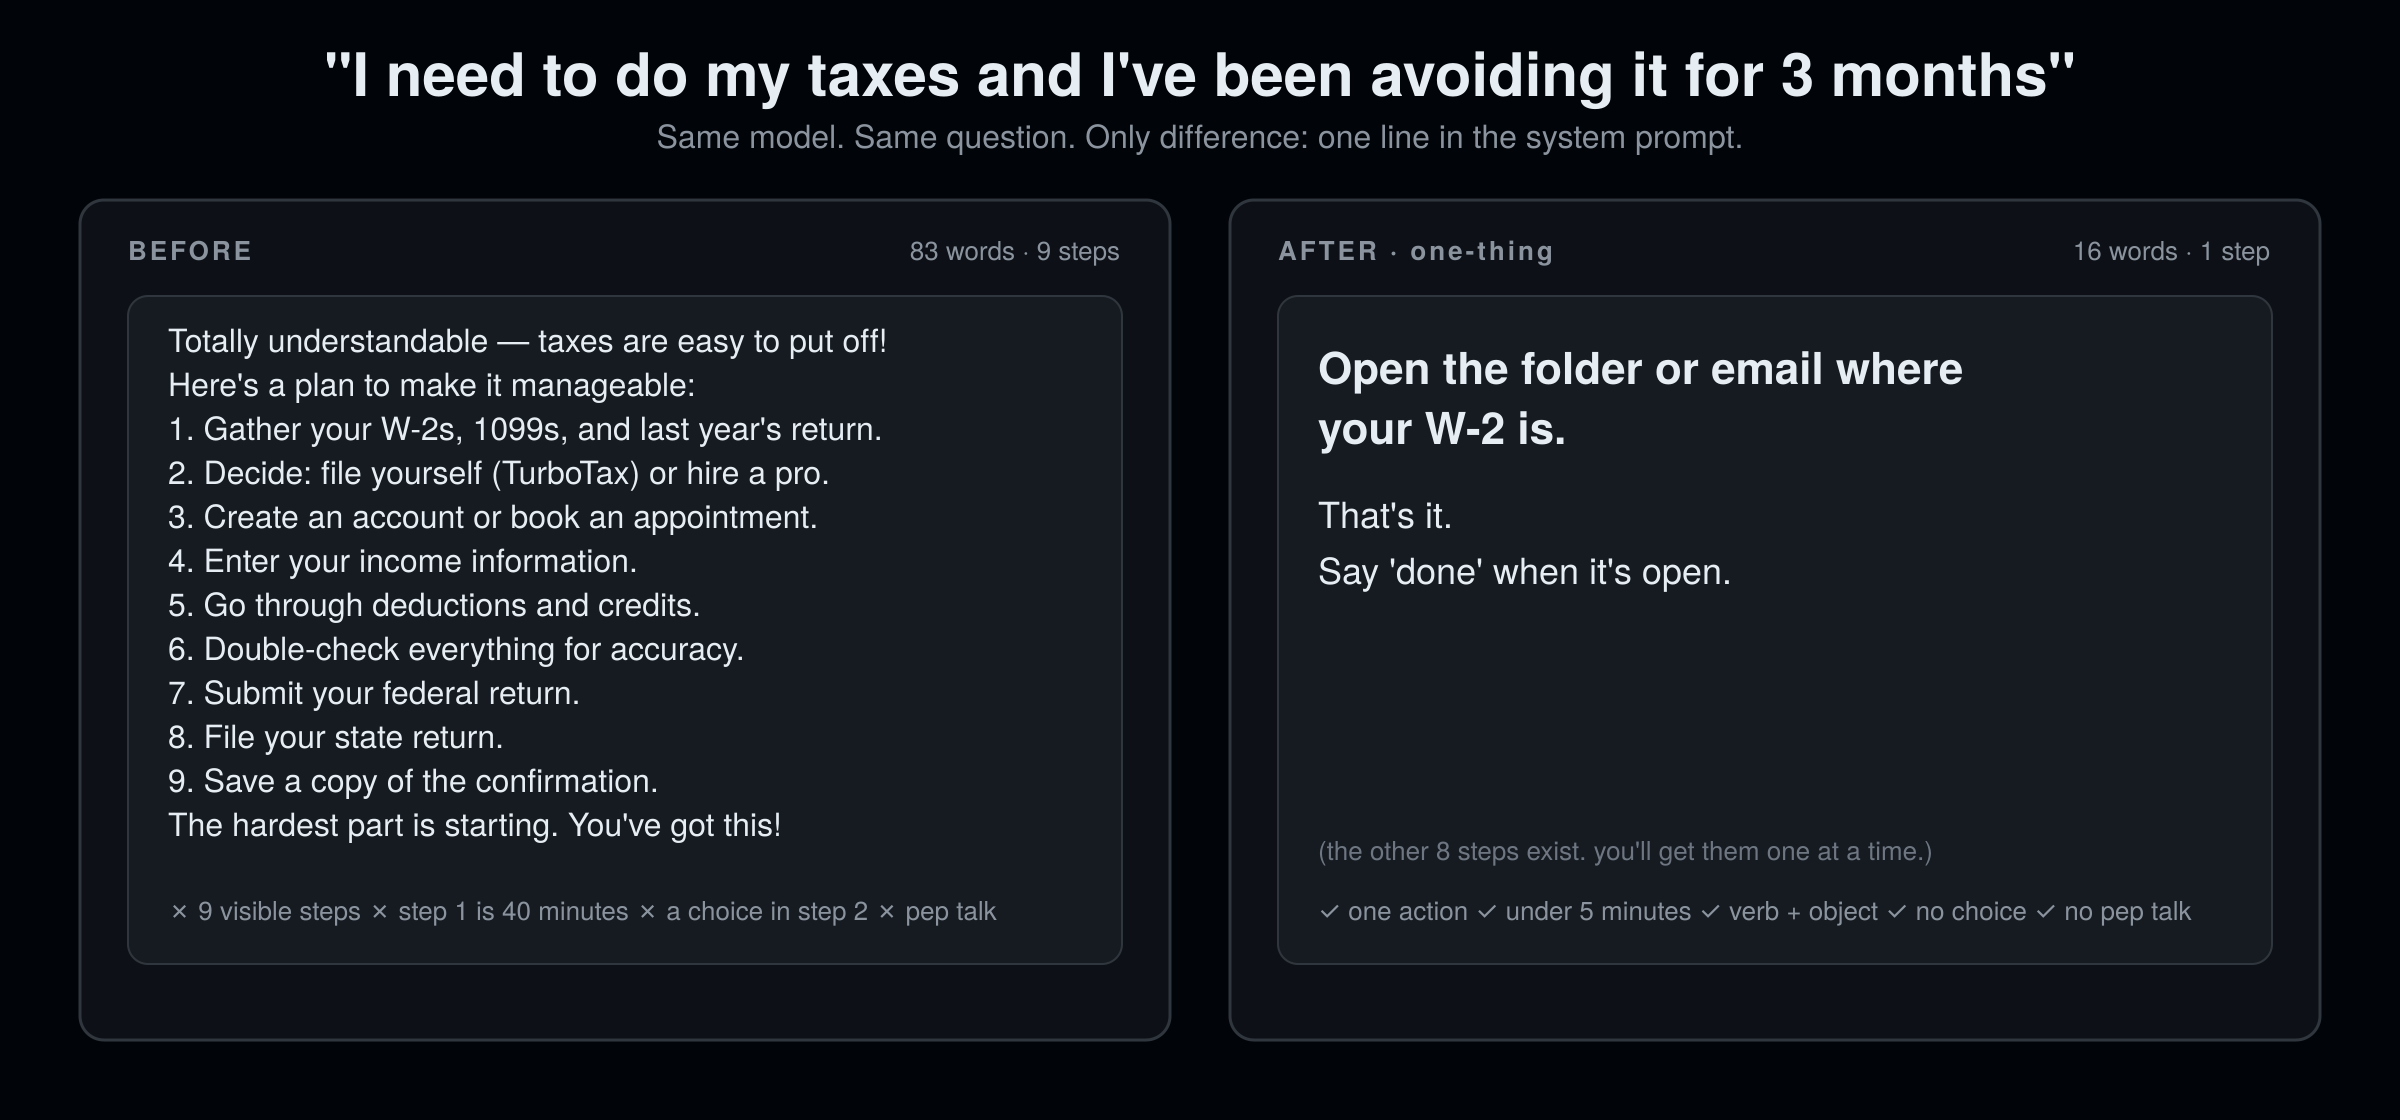
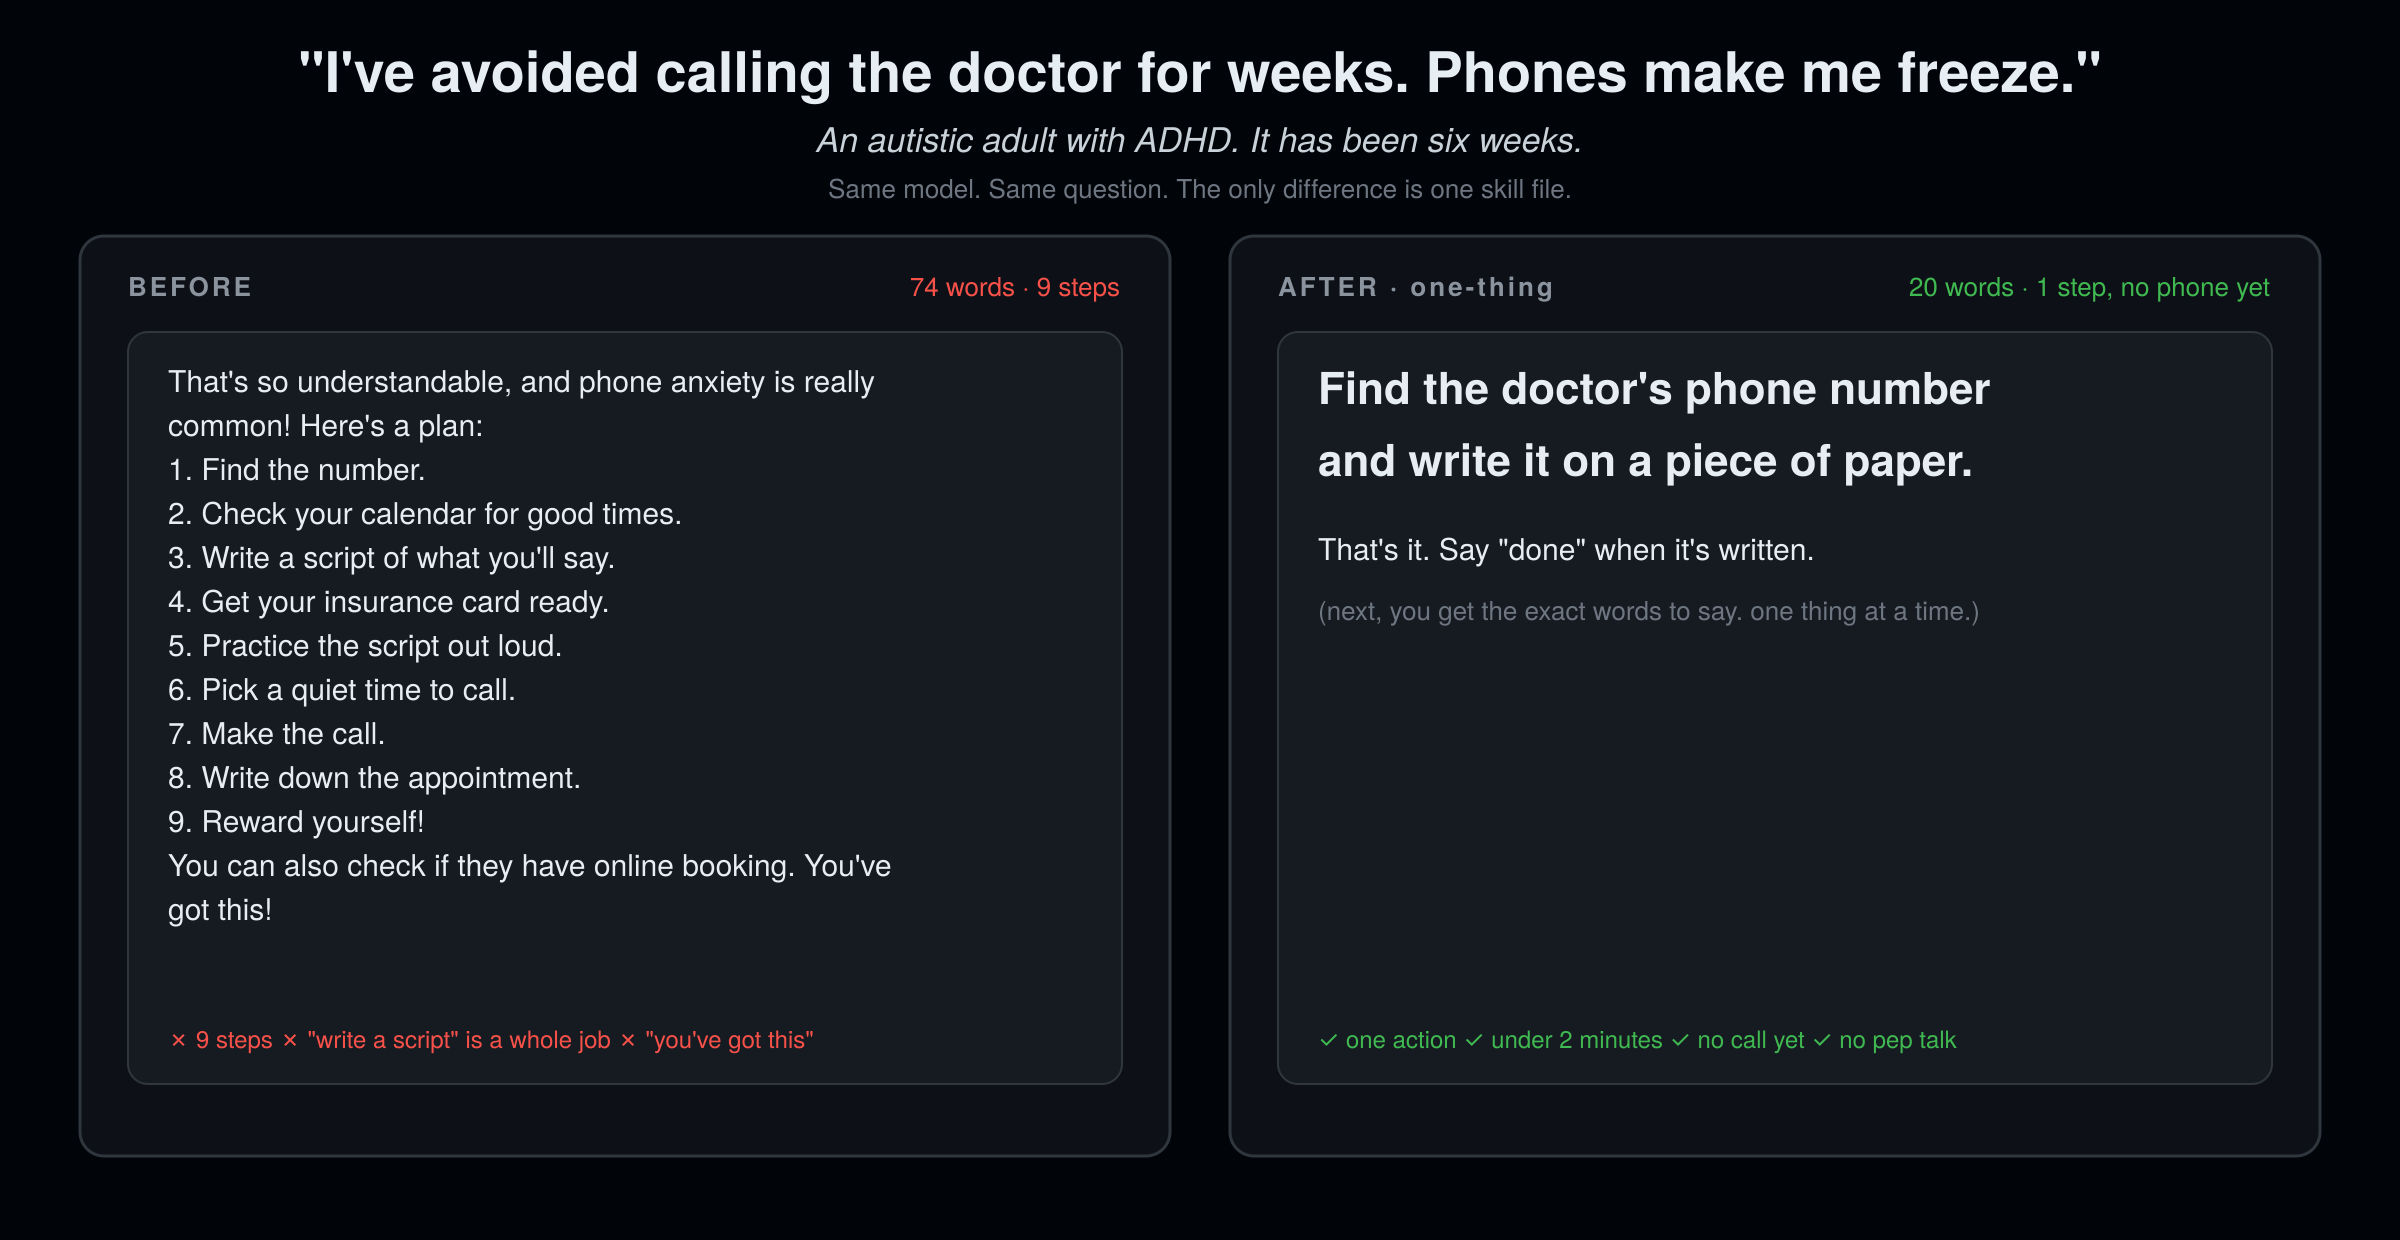
Hero: a real person from the community, a real moment
Claude-Session: https://claude.ai/code/session_01JNkmk7gcrUnzBfGrVpCjeG

diff --git a/README.md b/README.md
@@ -22,7 +22,7 @@
 npx skills add rosenhub/one-thing
 ```
 
-<img src="assets/before-after.png" alt="Before: 138 words, 9 steps, a choice in step 2, motivational close. After: 16 words, 1 step, under 5 minutes, the other 8 steps held back." width="100%">
+<img src="assets/before-after.png" alt="Before: 74 words · 9 steps. After: 20 words · 1 step, no phone yet. An autistic adult with ADHD. It has been six weeks." width="100%">
 
 Part of [AI Their Way](https://github.com/rosenhub/ai-their-way) — siblings: [no-subtext](https://github.com/rosenhub/no-subtext) · [what-did-they-mean](https://github.com/rosenhub/what-did-they-mean) · [never-say-remember](https://github.com/rosenhub/never-say-remember) · [easy-read](https://github.com/rosenhub/easy-read) · [presume-competence](https://github.com/rosenhub/presume-competence) · [low-demand](https://github.com/rosenhub/low-demand) · [is-this-a-scam](https://github.com/rosenhub/is-this-a-scam)
 
@@ -88,29 +88,29 @@ If your host isn't here and it reads markdown instructions from a file, it works
 
 Same model. Same prompt. The only change is the skill.
 
-### "I need to do my taxes and I've been avoiding it for 3 months"
+### "I need to call the doctor to make an appointment. I've avoided it for weeks. Phones make me freeze."
+
+*An autistic adult with ADHD. It has been six weeks.*
 
 **Before**
 
-> Totally understandable — taxes are one of those things that are easy to put off! The good news is that once you break it down, it's much more manageable.
->
-> Here's a plan:
->
-> 1. Gather your documents: W-2s, 1099s, last year's return, and any receipts for deductions.
-> 2. Decide whether you'll file yourself (TurboTax, FreeTaxUSA) or use a professional.
-> 3. Create an account or book an appointment.
-> 4. Enter your income information.
-> 5. Go through the deductions and credits you may qualify for.
-> 6. Double-check everything for accuracy.
-> 7. Submit your federal return.
-> 8. File your state return.
-> 9. Save a copy of your confirmation for your records.
->
-> Remember, three months isn't that bad, and the hardest part is just getting started. You've got this!
+> That's so understandable, and phone anxiety is really common! Here's a plan:
+> 1. Find the number.
+> 2. Check your calendar for good times.
+> 3. Write a script of what you'll say.
+> 4. Get your insurance card ready.
+> 5. Practice the script out loud.
+> 6. Pick a quiet time to call.
+> 7. Make the call.
+> 8. Write down the appointment.
+> 9. Reward yourself!
+> You can also check if they have online booking. You've got this!
 
 **After**
 
-> Open the folder or email where your W-2 is. That's it. Say 'done' when it's open.
+> Find the doctor's phone number and write it on a piece of paper.
+>
+> That's it. Say "done" when it's written.
 
 ### "I need to clean my apartment, it's a disaster"
 

diff --git a/eval/samples/before.md b/eval/samples/before.md
@@ -1,15 +1,11 @@
-Totally understandable — taxes are one of those things that are easy to put off! The good news is that once you break it down, it's much more manageable.
-
-Here's a plan:
-
-1. Gather your documents: W-2s, 1099s, last year's return, and any receipts for deductions.
-2. Decide whether you'll file yourself (TurboTax, FreeTaxUSA) or use a professional.
-3. Create an account or book an appointment.
-4. Enter your income information.
-5. Go through the deductions and credits you may qualify for.
-6. Double-check everything for accuracy.
-7. Submit your federal return.
-8. File your state return.
-9. Save a copy of your confirmation for your records.
-
-Remember, three months isn't that bad, and the hardest part is just getting started. You've got this!
+That's so understandable, and phone anxiety is really common! Here's a plan:
+1. Find the number.
+2. Check your calendar for good times.
+3. Write a script of what you'll say.
+4. Get your insurance card ready.
+5. Practice the script out loud.
+6. Pick a quiet time to call.
+7. Make the call.
+8. Write down the appointment.
+9. Reward yourself!
+You can also check if they have online booking. You've got this!

diff --git a/eval/samples/after.md b/eval/samples/after.md
@@ -1,1 +1,3 @@
-Open the folder or email where your W-2 is. That's it. Say 'done' when it's open.
+Find the doctor's phone number and write it on a piece of paper.
+
+That's it. Say "done" when it's written.
